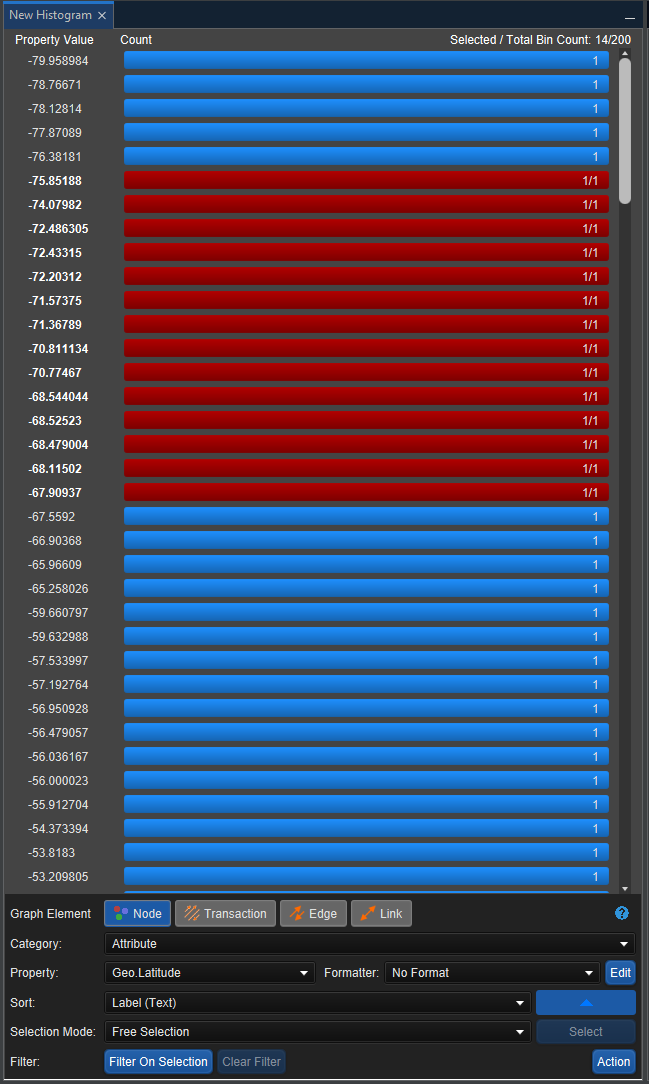
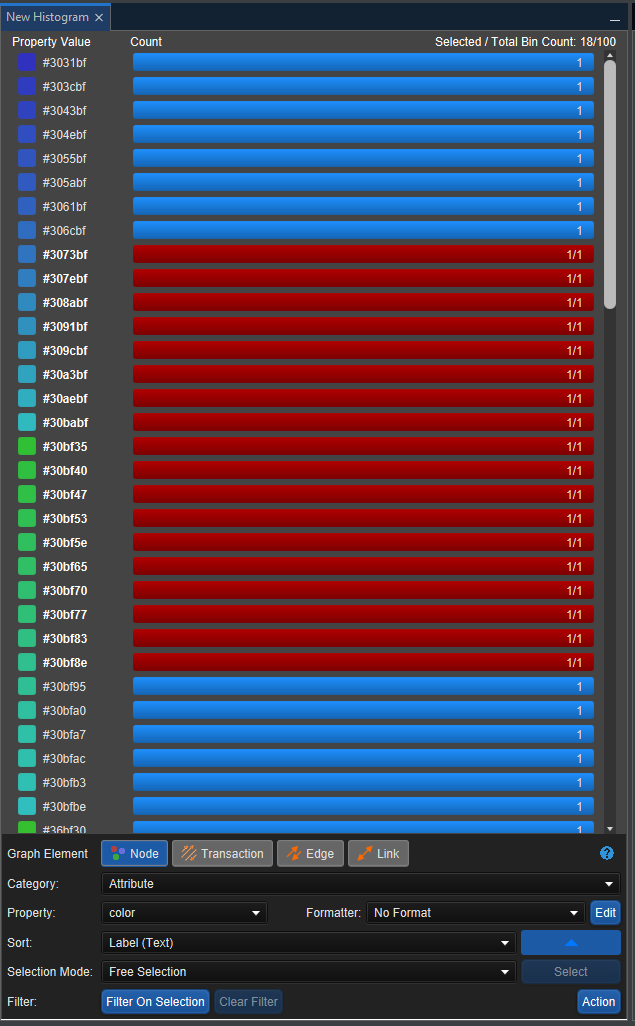
Requested changes

diff --git a/docs/blogs/whats-new-in-constellation-v3.3.0.html b/docs/blogs/whats-new-in-constellation-v3.3.0.html
@@ -60,11 +60,29 @@
 								currently available from the Experimental -> Views -> New Histogram menu. 
 								Although this new version looks very similar to the original, the new version 
 								utilises the JavaFX framework that many of the other views use, which offers 
-								significant benefits including a better performance.   
+								significant benefits including a better performance. The rewrite also includes
+								a Light Mode which can be seen when the Constellation Look and Feel is set to 
+								FlatLaf Light. 
 							</p>
 							
-
-							<img src="../images/blogs/whats-new-in-constellation-v3.3.0/histogram-rewrite.png" alt="Spellcheck"/>
+							<table>
+								<tbody>
+									<tr>
+										<td>
+											<figure style="padding: 1em">											
+												<img src="../images/blogs/whats-new-in-constellation-v3.3.0/original-histogram.png" alt="Spellcheck"/>
+												<figcaption>Original Histogram</figcaption>
+											</figure>
+										</td>
+										<td>
+											<figure style="padding: 1em">
+												<img src="../images/blogs/whats-new-in-constellation-v3.3.0/histogram-rewrite.png" alt="Spellcheck"/>
+												<figcaption>New Histogram</figcaption>
+											</figure>
+										</td>
+									</tr>
+								</tbody>
+							</table>
 
                         </section>
 						
@@ -75,10 +93,13 @@
 							<p>
 								Spellcheck, which previously has only been available in select plugins in 
 								the Data Access View, has now been added into the Conversation and Notes 
-								Views, and in the file and database importers. In the Conversation View, 
+								Views, and in the File and Database Importers. In the Conversation View, 
 								spellcheck has been added to the Create Translation text boxes and in the 
 								Notes View, spellcheck has been added to the text boxes on the new note 
-								and edit note dialogs.  
+								and edit note dialogs. In the File and Database Importers, spellcheck can 
+								be found in the new attribute textbox. Spellcheck has also been added to the 
+								Attribute Editor in the dialogs for String Attributes but it is turned off
+								by default. 
 							</p>
 
 							<img src="../images/blogs/whats-new-in-constellation-v3.3.0/spellcheck-notes.png" alt="Shortcuts"/>
@@ -106,7 +127,7 @@
 							<p>
 								Star files used to be able to be moved, renamed or deleted while the graph 
 								was open in Constellation which would cause exceptions. Star files have now 
-								been updated to stop any file manipulation while they are open in Constellation, 
+								been updated to stop any file manipulation while they are in use, 
 								similar to many other file types.  
 
 							</p>

diff --git a/docs/index.html b/docs/index.html
@@ -137,7 +137,7 @@
                             <a href="blogs/whats-new-in-constellation-v3.3.0.html">here</a>.
                         </p>
                         <footer>
-                            <p>8th of December 2025</p>
+                            <p>10th of December 2025</p>
                         </footer>
                     </article>
 					<article>